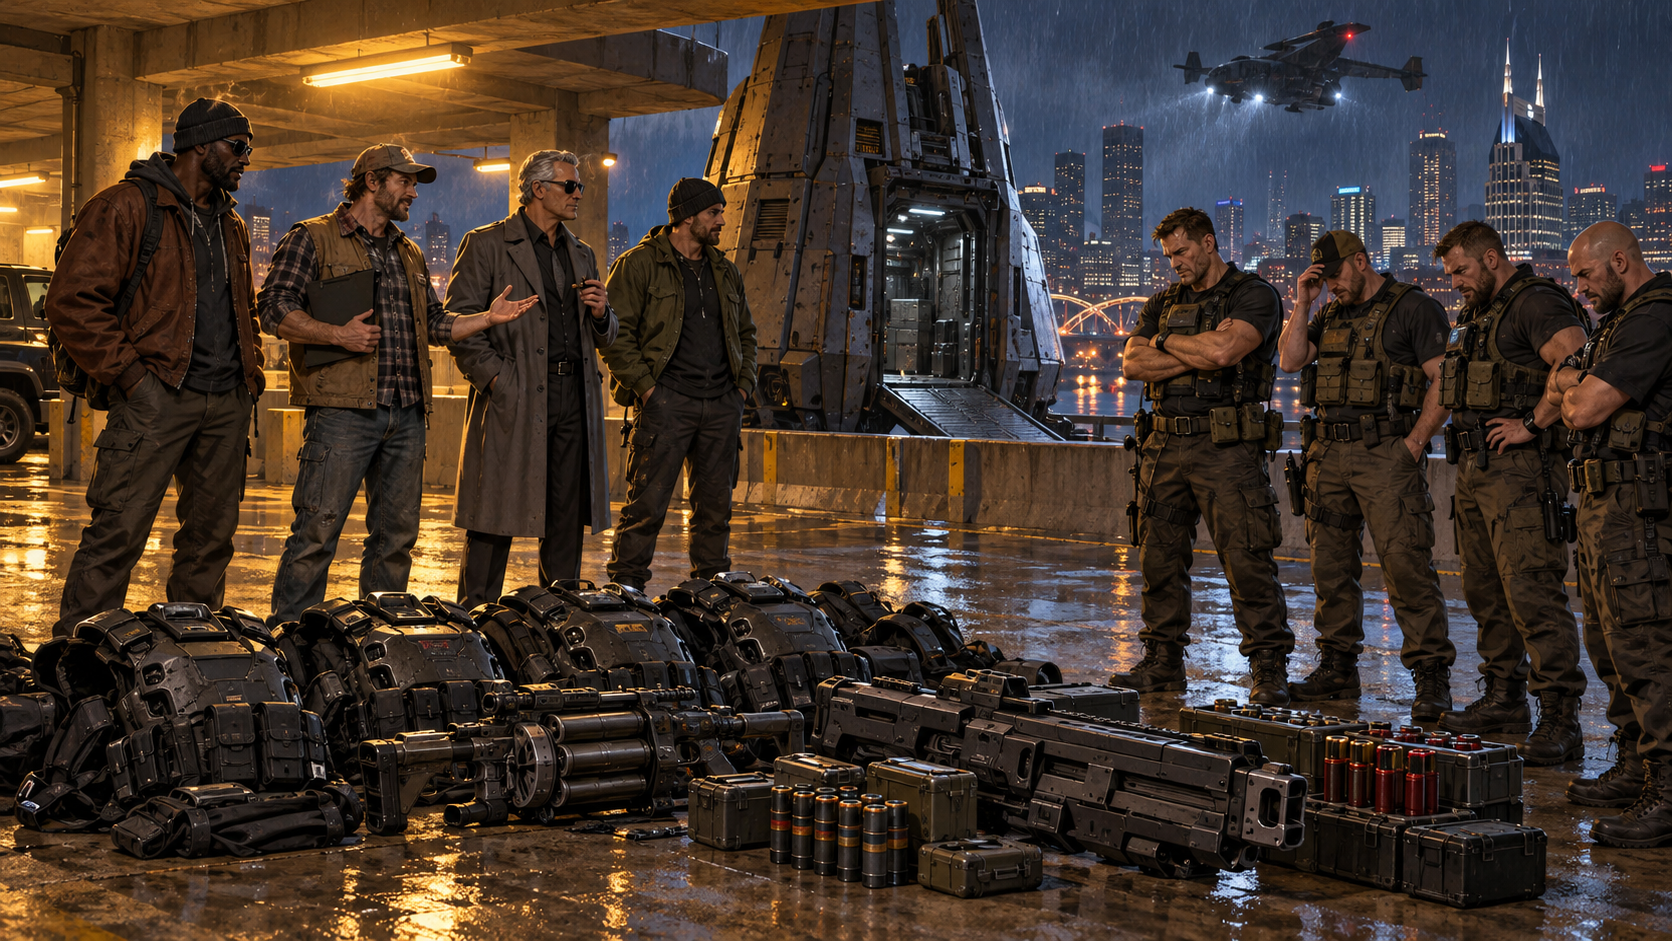
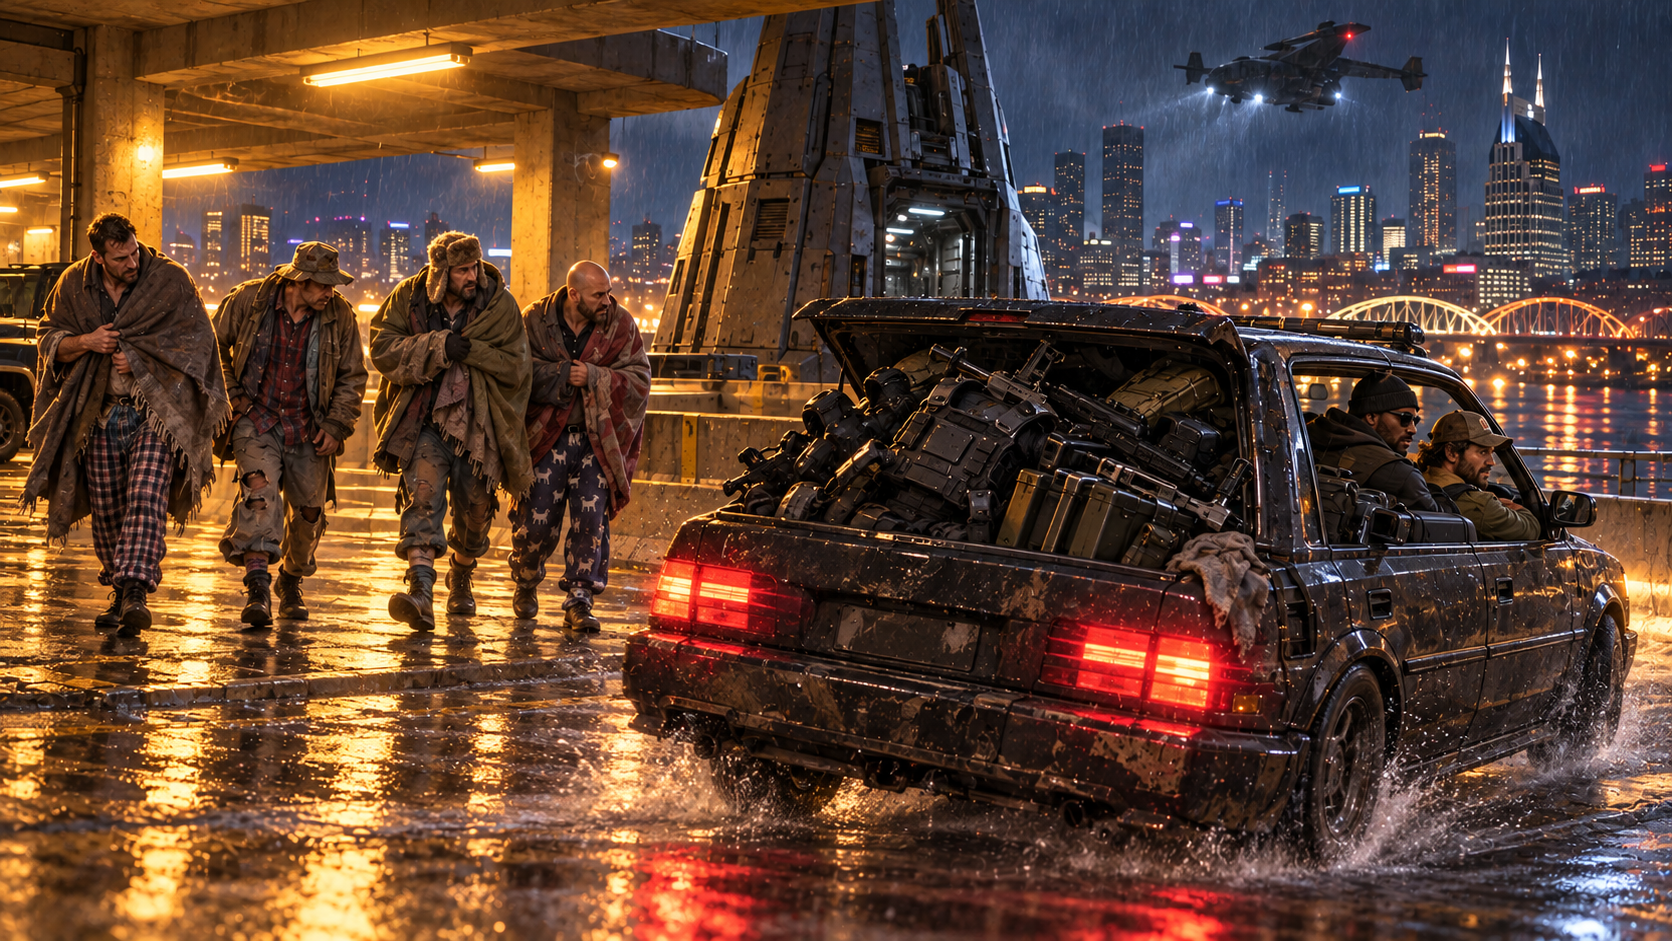
Update Oct 8 session recap image

diff --git a/Sessions/2026-10-08.md b/Sessions/2026-10-08.md
@@ -14,7 +14,7 @@ sources:
 
 # Session 2026-10-08
 
-![The crew bluffs four armed contractors beside an unmarked military drop pod in a Nashville parking garage, leaving with the contractors' armor and weapons.](../assets/images/Session-2026-10-08-Nashville-Drop-Pod.png)
+![Kurgan and Kilimanjaro peel away in a vehicle packed with the guards' armor and weapons while the four guards walk off in hobo disguises.](../assets/images/Session-2026-10-08-Nashville-Drop-Pod.png)
 
 ## Summary
 
